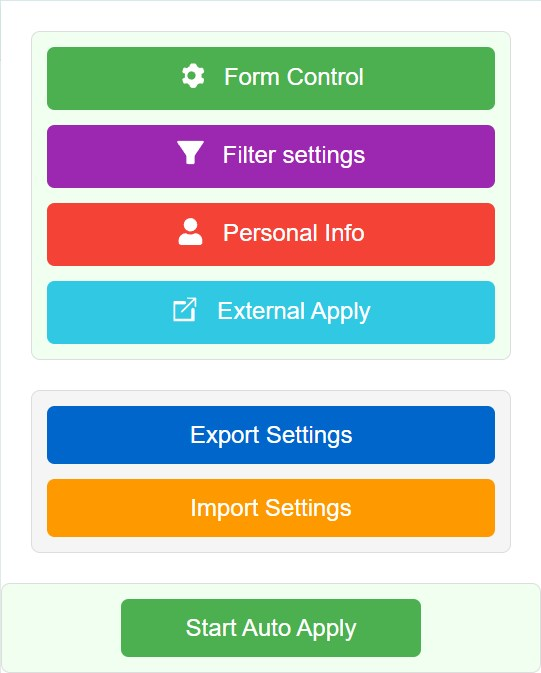
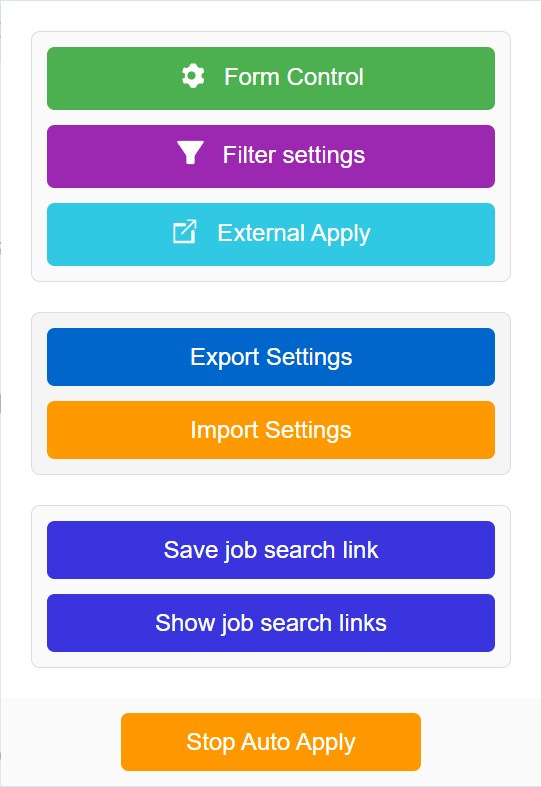
readme update

diff --git a/components/popup/popup.js b/components/popup/popup.js
@@ -111,7 +111,7 @@ document.addEventListener('click', event => {
 					// data set toggle
 					const dataset = button.dataset;
 					if (dataset.open === "true") {
-						button.textContent = 'Show job search link'
+						button.textContent = 'Show job search links'
 						button.style.backgroundColor = 'rgb(9, 2, 214, 0.8)'
 						button.dataset.open = "false";
 						if (accordion) {

diff --git a/components/popup/popup.html b/components/popup/popup.html
@@ -57,7 +57,7 @@
 			Save job search link
 		</button>
 		<button id="show-links" class="button button-links" data-open="false">
-			Show job search link
+			Show job search links
 		</button>
 	</div>
 </div>

diff --git a/README.md b/README.md
@@ -45,6 +45,27 @@ We improved the “External Apply” feature to store only unique job postings. 
 
 - Required for submitting applications.
 
+### **New Feature** ###
+#### Job Search Links Feature
+
+You can now easily save your preferred LinkedIn job search links with your custom filters and use them even when you're not on LinkedIn. Here’s how it works:
+
+1. **Perform Your Job Search**  
+   Go to [LinkedIn > Jobs](https://www.linkedin.com/jobs) and perform a job search using the filters you use most frequently.
+
+2. **Save the Job Search Link**  
+   In the extension popup, click on **Save job search link**. Enter a name for your search link. This saves the current URL along with your selected filters.
+   ![](assets/for_readme/job_search_save.jpg)
+3. **Launch the Bot Anywhere**  
+   Even if you are not currently on the LinkedIn platform, simply open the popup and click on **Show job search links**.
+   ![](assets/for_readme/job_search_feature.jpg)
+   - An accordion will display all your saved job search links.
+   - Select the desired link and click **Go**.
+   
+   The extension will automatically navigate to the specified LinkedIn job search page and start working with your saved filters – no additional input is required.
+
+This new feature streamlines the process, allowing you to quickly resume your job search with your preferred settings, regardless of which website you are currently browsing.
+
 ![Personal Information](assets/for_readme/personal_information.jpg)
 
 ## How to Install
